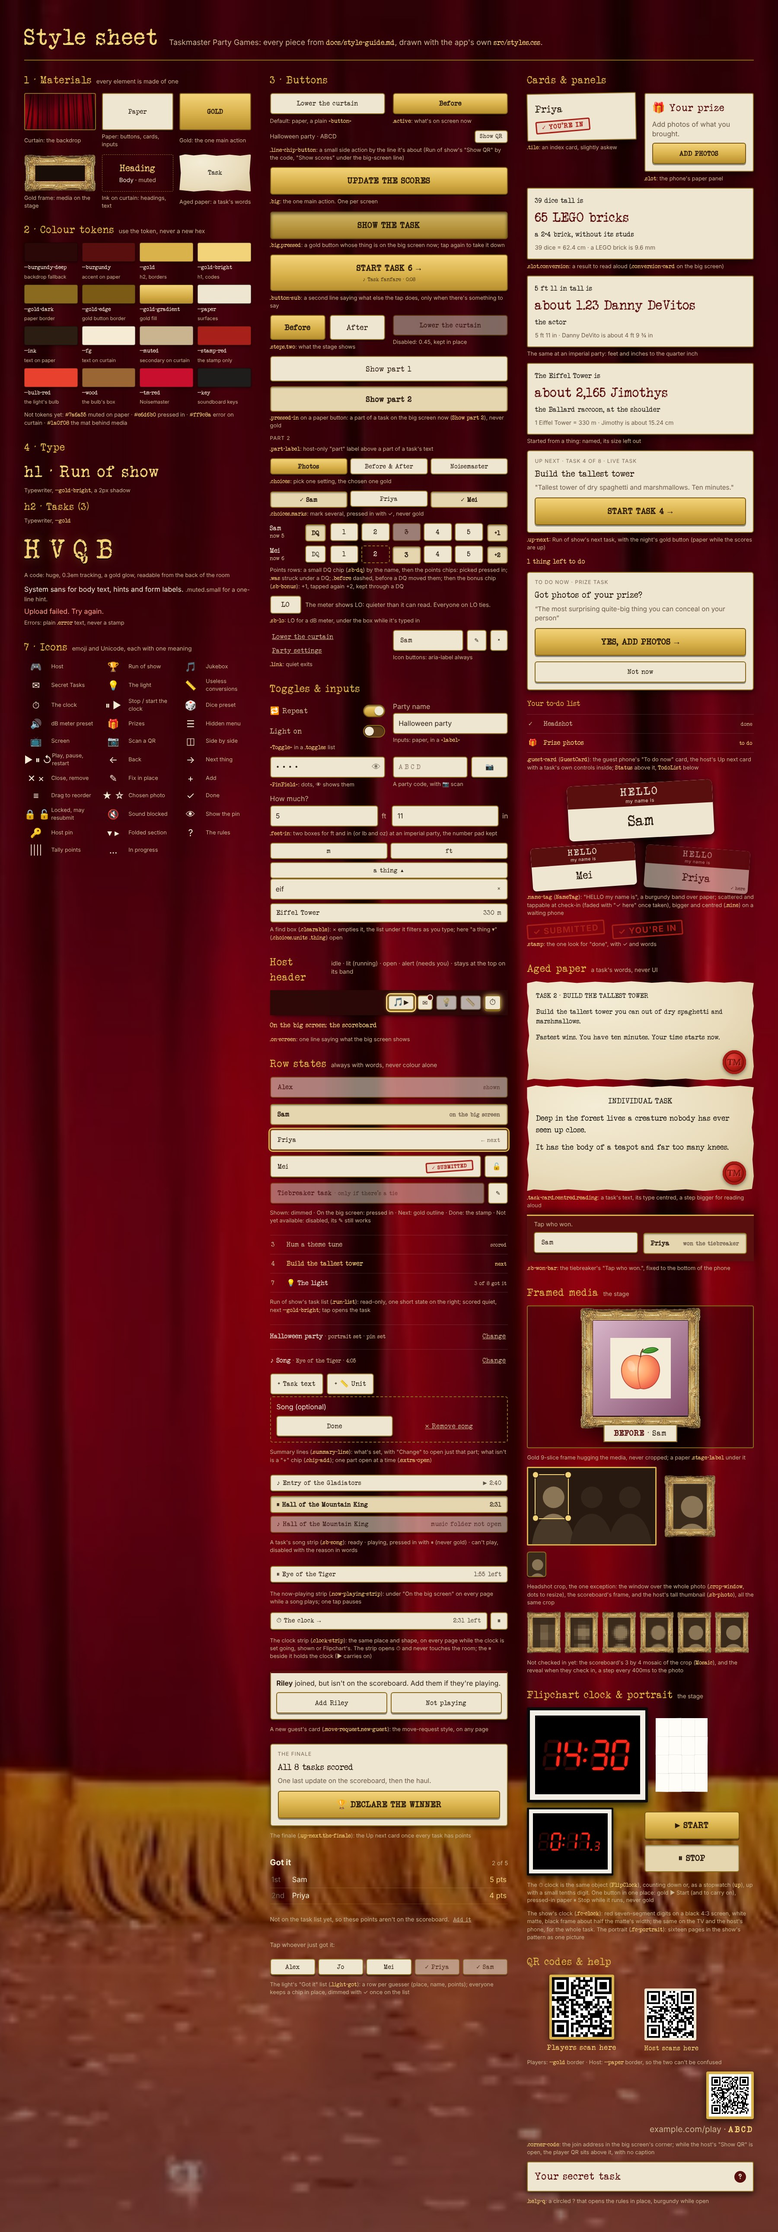
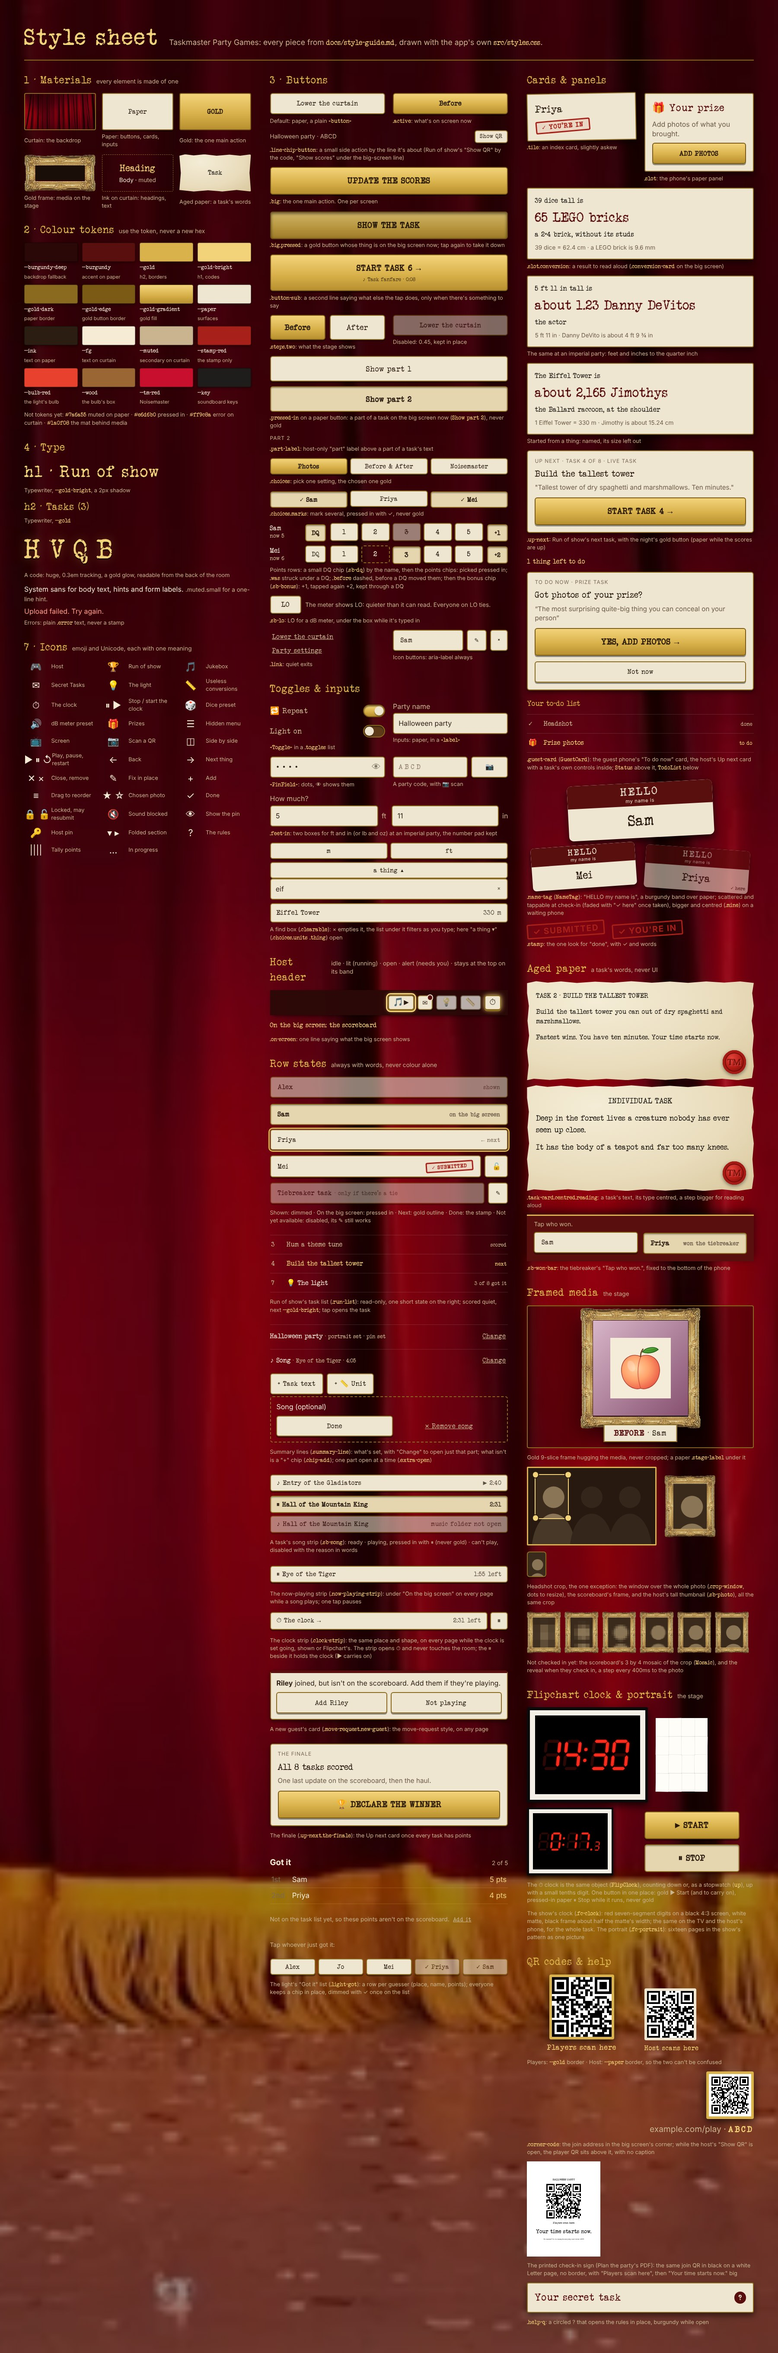
Check-in sign: Plan the party downloads a one-page PDF for the door with the join QR and "Your time starts now."
Claude-Session: https://claude.ai/code/session_01TyLgi4WDz2bc6AVrmW5mxx

diff --git a/src/scoreboard/taskCardsPdf.ts b/src/scoreboard/taskCardsPdf.ts
@@ -3,6 +3,7 @@
  * black text on white Letter pages, 12 pt, nothing of the card's parchment, edges or seal. A page per task, or per
  * part of one, text centred down the page; then, if asked, the secret tasks as cards: eight to a sheet (2 × 4, to
  * cut) or four (2 × 2, to fold into envelopes), each headed SECRET TASK, with faint cut lines and no fold lines.
+ * The check-in sign for the door is built here too, the same way.
  */
 
 export type Page = { heading: string; paragraphs: string[] };
@@ -158,7 +159,8 @@ function wrap(face: Face, text: string, size: number, max: number): number[][] {
   return lines;
 }
 
-interface Placed { x: number; y: number; codes: number[]; size: number }
+/** A line of text where it goes; `grey` (0 black … 1 white) for a quieter line. */
+interface Placed { x: number; y: number; codes: number[]; size: number; grey?: number }
 
 /**
  * One card's text laid out inside a box: the heading centred in capitals, then a paragraph a line, the block centred
@@ -198,8 +200,8 @@ const num = (n: number) => String(Math.round(n * 100) / 100);
 
 function stream(placed: Placed[], lines: string[] = []): string {
   const ops = [...lines];
-  ops.push("0 g", "BT");
-  for (const t of placed) ops.push(`/F1 ${num(t.size)} Tf 1 0 0 1 ${num(t.x)} ${num(t.y)} Tm ${hex(t.codes)} Tj`);
+  ops.push("BT");
+  for (const t of placed) ops.push(`${num(t.grey ?? 0)} g /F1 ${num(t.size)} Tf 1 0 0 1 ${num(t.x)} ${num(t.y)} Tm ${hex(t.codes)} Tj`);
   ops.push("ET");
   return ops.join("\n");
 }
@@ -229,7 +231,37 @@ export async function buildPdf(face: Face, pages: Page[], secrets: string[], lay
     content.push(stream(placed, cutLines(cols, rows)));
   }
   if (!content.length) throw new Error("No task text to print");
+  return writePdf(face, content);
+}
 
+/**
+ * The check-in sign: one Letter page to tape by the door. The party's name small on top, the join QR (`modules`,
+ * its dark squares, about 3¾ in) with "Players scan here", "Your time starts now." big, and the address and code
+ * small at the bottom for a phone that can't scan.
+ */
+export async function buildSignPdf(face: Face, sign: { party?: string; modules: boolean[][]; fallback: string }): Promise<Uint8Array> {
+  const centred = (text: string, size: number, y: number, grey?: number): Placed => {
+    const codes = codesOf(face, text);
+    return { x: (PAGE_W - widthOf(face, codes, size)) / 2, y, codes, size, grey };
+  };
+  const side = 3.75 * PT, cell = side / sign.modules.length;
+  const qrTop = PAGE_H / 2 + 2.7 * PT, left = (PAGE_W - side) / 2;
+  const squares: string[] = ["0 g"];
+  sign.modules.forEach((row, r) => row.forEach((dark, c) => {
+    if (dark) squares.push(`${num(left + c * cell)} ${num(qrTop - (r + 1) * cell)} ${num(cell)} ${num(cell)} re`);
+  }));
+  squares.push("f");
+  const placed = [
+    ...(sign.party ? [centred(sign.party.toUpperCase(), 16, qrTop + 0.55 * PT)] : []),
+    centred("Players scan here", 16, qrTop - side - 0.35 * PT),
+    centred("Your time starts now.", 40, qrTop - side - 1.45 * PT),
+    centred(sign.fallback, 11, qrTop - side - 2.25 * PT, 0.27),
+  ];
+  return writePdf(face, [stream(placed, squares)]);
+}
+
+/** The PDF file around `content`, a content stream a page, with the face embedded once as F1. */
+async function writePdf(face: Face, content: string[]): Promise<Uint8Array> {
   const enc = new TextEncoder();
   const chunks: Uint8Array[] = [];
   const offsets: number[] = [];

diff --git a/src/scoreboard/TaskCards.tsx b/src/scoreboard/TaskCards.tsx
@@ -7,7 +7,7 @@ import type { Scoreboard, Session } from "../types";
 import { setupFileName } from "../setupFile";
 import { sorted } from "./tasks";
 import { headingOf, partsOf, tiebreakerWords } from "./TaskText";
-import { buildPdf, faceOf, sfntOfWoff, type Page, type SecretLayout } from "./taskCardsPdf";
+import { buildPdf, faceOf, sfntOfWoff, type Face, type Page, type SecretLayout } from "./taskCardsPdf";
 
 /** A page per task with words (and per part of one), the tiebreaker last; a task with no words has none. */
 export function pagesOf(board: Scoreboard | undefined): Page[] {
@@ -16,6 +16,22 @@ export function pagesOf(board: Scoreboard | undefined): Page[] {
     heading: headingOf(p.type),
     paragraphs: p.text.split("\n").map((l) => l.trim()).filter(Boolean),
   })));
+}
+
+/** The Veteran Typewriter face, read from the app's own font file, for a PDF. */
+export async function typewriter(): Promise<Face> {
+  return faceOf(await sfntOfWoff(await (await fetch(fontUrl)).arrayBuffer()));
+}
+
+/** "Halloween party task cards.pdf": the setup file's name with `what` in place of its ending. */
+export const pdfName = (session: Session, code: string, what: string) => setupFileName(session, code).replace(/\.taskmaster\.json$/, ` ${what}.pdf`);
+
+/** The PDF in `tab`, opened while the tap still counted; where the browser wouldn't open one, it downloads instead. */
+export function showPdf(pdf: Uint8Array, tab: Window | null, name: string) {
+  const url = URL.createObjectURL(new Blob([pdf as BlobPart], { type: "application/pdf" }));
+  if (tab) tab.location.href = url;
+  else Object.assign(document.createElement("a"), { href: url, download: name }).click();
+  setTimeout(() => URL.revokeObjectURL(url), 60000);
 }
 
 /**
@@ -37,16 +53,8 @@ export function TaskCards({ code, session }: { code: string; session: Session })
       const secrets = Object.values(pool).filter((t) => t.trim());
       const pages = pagesOf(session.scoreboard);
       if (!pages.length && !secrets.length) { tab?.close(); setNote("No task has any text yet."); return; }
-      const face = faceOf(await sfntOfWoff(await (await fetch(fontUrl)).arrayBuffer()));
-      const pdf = await buildPdf(face, pages, secrets, layout);
-      const url = URL.createObjectURL(new Blob([pdf as BlobPart], { type: "application/pdf" }));
-      if (tab) tab.location.href = url;
-      else {
-        // The browser wouldn't open a tab, so it downloads instead.
-        const a = Object.assign(document.createElement("a"), { href: url, download: setupFileName(session, code).replace(/\.taskmaster\.json$/, " task cards.pdf") });
-        a.click();
-      }
-      setTimeout(() => URL.revokeObjectURL(url), 60000);
+      const pdf = await buildPdf(await typewriter(), pages, secrets, layout);
+      showPdf(pdf, tab, pdfName(session, code, "task cards"));
     } catch { tab?.close(); setNote("Couldn't make the PDF. Try again."); }
     finally { setBusy(false); }
   }

diff --git a/src/scoreboard/CheckinSign.tsx b/src/scoreboard/CheckinSign.tsx
@@ -1,0 +1,60 @@
+import { QRCodeSVG } from "qrcode.react";
+import { useState } from "react";
+import { createRoot } from "react-dom/client";
+import { flushSync } from "react-dom";
+import { PUBLIC_URL, joinUrlFor } from "../firebase";
+import type { Session } from "../types";
+import { pdfName, showPdf, typewriter } from "./TaskCards";
+import { buildSignPdf } from "./taskCardsPdf";
+
+/**
+ * The join QR's dark squares, row by row: the same code the big screen draws (`QRCodeSVG`), read back from its
+ * path, which runs of dark squares draw as "M x y h n v1 H x z".
+ */
+export function qrModules(value: string): boolean[][] {
+  const box = document.createElement("div");
+  const root = createRoot(box);
+  flushSync(() => root.render(<QRCodeSVG value={value} marginSize={0} />));
+  const svg = box.querySelector("svg")!;
+  const n = Number(svg.getAttribute("viewBox")!.split(" ")[2]);
+  const d = svg.querySelectorAll("path")[1]!.getAttribute("d")!;
+  root.unmount();
+  const rows = Array.from({ length: n }, () => Array<boolean>(n).fill(false));
+  for (const [, x, y, w] of d.matchAll(/M(\d+)[ ,](\d+) ?h(\d+)/g)) {
+    for (let i = 0; i < +w!; i++) rows[+y!]![+x! + i] = true;
+  }
+  return rows;
+}
+
+/**
+ * "Check-in sign" on Plan the party: downloads one page to print and tape by the door, the join QR under the party's
+ * name, "Your time starts now." and the address and code for a phone that can't scan.
+ */
+export function CheckinSign({ code, session }: { code: string; session: Session }) {
+  const [busy, setBusy] = useState(false);
+  const [note, setNote] = useState<string>();
+
+  async function download() {
+    setBusy(true); setNote(undefined);
+    // Opened now, while the tap still counts, so the browser lets the PDF come up in its own tab once it's made.
+    const tab = window.open("", "_blank");
+    try {
+      const site = PUBLIC_URL.replace(/^https?:\/\//, "");
+      const pdf = await buildSignPdf(await typewriter(), {
+        party: session.name, modules: qrModules(joinUrlFor(code)), fallback: `No camera? Go to ${site}/play and enter ${code}`,
+      });
+      showPdf(pdf, tab, pdfName(session, code, "check-in sign"));
+    } catch { tab?.close(); setNote("Couldn't make the PDF. Try again."); }
+    finally { setBusy(false); }
+  }
+
+  return (
+    <section className="task-cards">
+      <div className="summary-line">
+        <span>Check-in sign</span>
+        <button className="link" disabled={busy} onClick={() => void download()}>{busy ? "Making…" : "Download PDF"}</button>
+      </div>
+      <p className="muted small">{note ?? "Opens in a new tab: the join QR for the door, to print."}</p>
+    </section>
+  );
+}

diff --git a/docs/style-sheet/sheet.tsx b/docs/style-sheet/sheet.tsx
@@ -303,6 +303,14 @@ function Sheet() {
               <p>example.com/play · <strong>ABCD</strong></p>
             </div>
             <Cap><code>.corner-code</code>: the join address in the big screen's corner; while the host's "Show QR" is open, the player QR sits above it, with no caption</Cap>
+            <div style={{ justifySelf: "start", width: 170, aspectRatio: "8.5 / 11", background: "#fff", color: "#000", fontFamily: "var(--typewriter)", display: "grid", alignContent: "center", justifyItems: "center", gap: 6, textAlign: "center" }}>
+              <span style={{ fontSize: 6 }}>HALLOWEEN PARTY</span>
+              <QRCodeSVG value="https://example.com/play?code=ABCD" marginSize={0} style={{ width: 80, height: 80 }} />
+              <span style={{ fontSize: 6 }}>Players scan here</span>
+              <span style={{ fontSize: 13 }}>Your time starts now.</span>
+              <span style={{ fontSize: 4, color: "#444" }}>No camera? Go to example.com/play and enter ABCD</span>
+            </div>
+            <Cap>The printed check-in sign (Plan the party's PDF): the same join QR in black on a white Letter page, no border, with "Players scan here", then "Your time starts now." big</Cap>
             <div className="slot" style={{ gridTemplateColumns: "1fr auto", alignItems: "center" }}><h2>Your secret task</h2><button className="help-q" aria-expanded>?</button></div>
             <Cap><code>.help-q</code>: a circled ? that opens the rules in place, burgundy while open</Cap>
           </Sec>

diff --git a/src/scoreboard/Planning.tsx b/src/scoreboard/Planning.tsx
@@ -9,6 +9,7 @@ import { cropFill } from "./crop";
 import { currentTotals } from "./scoring";
 import { SetupFile } from "./SetupFile";
 import { TaskCards } from "./TaskCards";
+import { CheckinSign } from "./CheckinSign";
 import { Toggle } from "../Toggle";
 import { LIGHT, plural, scored, sorted, titleOf } from "./tasks";
 
@@ -35,6 +36,7 @@ export function PlanParty({ code, session, onBack, onEdit, onCrop }: {
       <Contestants code={code} session={session} board={board} contestants={sorted(board?.contestants)} onCrop={onCrop} />
       <Envelopes code={code} />
       <TaskCards code={code} session={session} />
+      <CheckinSign code={code} session={session} />
       <SetupFile code={code} session={session} />
     </div>
   );

diff --git a/docs/style-guide.md b/docs/style-guide.md
@@ -154,6 +154,8 @@ The Flipchart task has two materials of its own. **The clock** (`src/clock/FlipC
 ### QR codes
 White background, 6px `--gold` border (`--paper` border for the host QR, so the two can't be confused), with a typewriter caption underneath ("Players scan here" / "Host scans here").
 
+**Printed**, on the check-in sign (§ Plan the party), the join QR is plain black on white paper with no border, about 3¾ in square, still captioned "Players scan here". See: [checkin-sign-pdf.jpg](screens/checkin-sign-pdf.jpg).
+
 See: [main-welcome.jpg](screens/main-welcome.jpg).
 
 ## 4. Type
@@ -195,7 +197,7 @@ See: [guest-home-waiting.jpg](screens/guest-home-waiting.jpg), [guest-home-prize
 ### Host remote (`/host`)
 - Same phone column, but it's a **control panel**: every control keeps its position on every view. Disable controls that don't apply; don't remove them (see the comment in `HostRemote.tsx`).
 - **Header** (`HostPage.tsx`): five icon buttons, right-aligned, in this order: 🎵 the jukebox (shows ▶ and glows while a song plays), ✉ Secret Tasks, 💡 the light (glows while it's on), 📏 Useless conversions (glows while a conversion is on the big screen), ⏱ The clock (glows while it counts). The open one has a `--gold-bright` outline. It stays at the top of the screen while the page scrolls, on a band of `--burgundy-deep` (95%) that runs to the phone's edges, so it is always one tap away. Idle icons are faded and greyed (`.head-icon`); `.lit` is the gold glow, meaning "running"; `.alert` is a small burgundy dot, meaning "needs the host". Never use the glow for "needs you". There is no 🏆 and no "Host" label: Run of show is home, and its title carries the party name and code in small muted type. 🎵 ✉ 💡 📏 ⏱ open in place of the page with one "← Back" to where the host was, then the "On the big screen" line. A new all-evening feature gets a header icon, not another section on a page.
-- **Arrivals** (`Arrivals` in `RunOfShow.tsx`): before the first task, "Here so far · 3 of 5" and a read-only list (`.arrivals-list`: a 2rem-wide headshot in the scoreboard window's shape, cropped as the scoreboard crops it, the name in typewriter, and a muted "checked in", "not yet" or "checked in · no headshot yet"; guests who haven't come are dimmed). No QR button of its own: "Show QR" by the code covers it, and the host prints the QR for the door.
+- **Arrivals** (`Arrivals` in `RunOfShow.tsx`): before the first task, "Here so far · 3 of 5" and a read-only list (`.arrivals-list`: a 2rem-wide headshot in the scoreboard window's shape, cropped as the scoreboard crops it, the name in typewriter, and a muted "checked in", "not yet" or "checked in · no headshot yet"; guests who haven't come are dimmed). No QR button of its own: "Show QR" by the code covers it, and the host prints the QR for the door (the check-in sign, § Plan the party).
 - **New guest card** (`.move-request.new-guest`, in `HostPage.tsx`): the move-request card style, at the top of any page: the guest's name in bold, "joined, but isn't on the scoreboard. Add them if they're playing.", and two paper buttons, "Add Riley" and "Not playing".
 - **The finale** (`.up-next.the-finale`): the Up next card once every task has points: "THE FINALE", "All 8 tasks scored", one line on what follows, and the night's gold "🏆 Declare the winner".
 - **Now-playing strip** (`.sb-song.now-playing-strip`, in `OnScreen`): while a song plays, under the "On the big screen" line of every page: "⏸ Title" and "1:55 left", pressed in. One tap pauses it. It never goes gold.
@@ -230,7 +232,8 @@ See: [guest-home-waiting.jpg](screens/guest-home-waiting.jpg), [guest-home-prize
   3. `Contestants (N)`: the "Pixelate until checked in" switch (on to start) and a muted line, "On the big screen's scoreboard only. Each face sharpens as they check in." ([pixelate-host-plan.jpg](screens/pixelate-host-plan.jpg)), then the headshot as a tall thumbnail in the scoreboard window's shape, showing its crop (with none, tap to add one; with one, tap to open "Greg's headshot" in the row with paper Crop and Replace and a quiet Cancel, laid out like Rename) · name with "checked in" / "not yet" · `×`, guests here but not on the scoreboard with "+ Add", then a "Add contestants, one per line" box.
   4. "✉ Secret envelopes · 12 in the pile" as a summary line, with Change opening the pile to load it.
   5. **Task cards**: a row (`.task-cards`, a summary line) with **Download PDF** on the right (it opens the PDF in a new tab, or downloads it where the browser blocks that) and a quiet hint, "Opens in a new tab: each task's text, a page a part, to print." Under it an "Include secret tasks" switch (`Toggle`); on, a `.choices.marks` radio row "8 to cut" / "4 to fold" (pressed in, never gold) picks how the secret tasks print. The PDF is plain black Veteran Typewriter text on white Letter pages: a page per task or part (heading in capitals, centred; a paragraph per line; the block centred down the page), then the secret tasks as cards headed SECRET TASK, 8 (2 × 4) or 4 (2 × 2) a sheet, faint grey cut lines between cards and no fold lines. Built in the app (`taskCardsPdf.ts`) with the font embedded. See: [task-cards-pdf-page.jpg](screens/task-cards-pdf-page.jpg), [task-cards-pdf-secret-cut.jpg](screens/task-cards-pdf-secret-cut.jpg), [task-cards-pdf-secret-fold.jpg](screens/task-cards-pdf-secret-fold.jpg), [plan-host-task-cards.jpg](screens/plan-host-task-cards.jpg).
-  6. **Setup file**: at the very bottom, a row (`.setup-file`, a summary line like the envelopes' one): **Import** and **Export** links on the right (`.summary-links`) and a quiet hint under it, "Tasks, tiebreaker, secret tasks and the light. Not guests or points." ([host-setup-file.jpg](screens/host-setup-file.jpg)). Import opens the file picker, then a check in place under the row (`.sb-add`: an h3, "Nothing changes until you tap Import.", the read-only `.run-list` of the tasks as they'll be with unchanged / new / updated / kept: has points on the right, quiet lines for Removed, Tiebreaker, Secret tasks, The light and songs missing from the music folder, gold "Import N tasks", quiet Cancel); a wrong file shows one line and Cancel instead ([host-setup-import-check.jpg](screens/host-setup-import-check.jpg)).
+  6. **Check-in sign**: a row like Task cards (`CheckinSign.tsx`, a summary line) with **Download PDF** on the right and the hint "Opens in a new tab: the join QR for the door, to print." No options. The PDF is one white Letter page in black Veteran Typewriter, centred: the party's name in small capitals (none if the party has no name), the join QR (the big screen's address, `/play?code=ABCD`, about 3¾ in) with "Players scan here" under it, **"Your time starts now."** big (40 pt), and in small grey "No camera? Go to site/play and enter ABCD". Built by `buildSignPdf` in `taskCardsPdf.ts`. See: [checkin-sign-pdf.jpg](screens/checkin-sign-pdf.jpg), [plan-host-task-cards.jpg](screens/plan-host-task-cards.jpg).
+  7. **Setup file**: at the very bottom, a row (`.setup-file`, a summary line like the envelopes' one): **Import** and **Export** links on the right (`.summary-links`) and a quiet hint under it, "Tasks, tiebreaker, secret tasks and the light. Not guests or points." ([host-setup-file.jpg](screens/host-setup-file.jpg)). Import opens the file picker, then a check in place under the row (`.sb-add`: an h3, "Nothing changes until you tap Import.", the read-only `.run-list` of the tasks as they'll be with unchanged / new / updated / kept: has points on the right, quiet lines for Removed, Tiebreaker, Secret tasks, The light and songs missing from the music folder, gold "Import N tasks", quiet Cancel); a wrong file shows one line and Cancel instead ([host-setup-import-check.jpg](screens/host-setup-import-check.jpg)).
   On a wide iPad (≥1000px) the tasks and contestants sit side by side, with the party line and the envelopes line across.
 - **Summary line** (`.summary-line`): a line saying what's set, in typewriter, with a quiet "Change" (or ✎) at the right that opens just that part in place. Used for the party, the tiebreaker, the envelopes and a task's optional parts. Anything optional that isn't set yet is a paper "+" chip instead (`.chip-add`: "+ Task text", "+ Song", "+ 📏 Unit"). Only one part is open at a time (`.extra-open`, a dashed gold outline), with Done and "✕ Remove …" inside.
 - **A task's ✎ page** (`TaskEditPage.tsx`): its own page, "← Plan the party", so the list never jumps. Always there: the name (for an app task "Photos: name it (optional)"), the note and, for a live task, "Scoring". Then the optional parts as summary lines or chips: "Task text · LIVE TASK · Build the tallest…", "♪ Song · Eye of the Tiger · 4:05", "Transition · ♪ Task fanfare · 0:08 · 🖼 Dice tower" (music, a picture, both, or a video on its own: three pickers in one open part, then a paper "▶ Try it on the big screen" that plays what's picked, saved or not, on the big screen; pressed in, "⏹ Stop", while it plays, and it ends when the host leaves the page. [task-edit-transition.jpg](screens/task-edit-transition.jpg), [task-edit-transition-try.jpg](screens/task-edit-transition-try.jpg)), "📏 Measured in · cm · one is 1 cm" (🔊 dB meter, with its "DQ if louder than", for sound tasks). Gold Save, quiet Cancel and "Remove this task" below; the tiebreaker has no Scoring, unit or Remove.

diff --git a/docs/screens/README.md b/docs/screens/README.md
@@ -206,7 +206,8 @@ Scoreboard (taken on 2026-10-12, from the real components with made-up sessions;
 | `run-of-show-host-play-a-game.jpg` | "Play a task": a task that's not on the list, the same page with no number and no points (2026-10-19, from the ABCD party) |
 | `run-of-show-host-add-game.jpg` | "+ App task" on Plan the party, "Which task?": Noisemaster, Secret Tasks, Headshot and Prize task greyed out as "on the list", Photos still offered; the live tasks named Dice tower, Five socks and Hum a theme tune (2026-10-22, from the ABCD party) |
 | `host-setup-file.jpg` | The "Setup file" row at the bottom of Plan the party: Import and Export links on the right and "Tasks, tiebreaker, secret tasks and the light. Not guests or points." under it (2026-10-18). Rendered from the real row's markup |
-| `plan-host-task-cards.jpg` | Plan the party's bottom: the "Task cards" row with Download PDF, "Include secret tasks" switched on and the "8 to cut" / "4 to fold" radio row, above Setup file (2026-10-22, from the ABCD party) |
+| `plan-host-task-cards.jpg` | Plan the party's bottom: the "Task cards" row with Download PDF, "Include secret tasks" switched on and the "8 to cut" / "4 to fold" radio row, then the "Check-in sign" row with its Download PDF, above Setup file (2026-10-22, from the ABCD party) |
+| `checkin-sign-pdf.jpg` | The check-in sign PDF from the ABCD Halloween party: HALLOWEEN PARTY, the join QR, "Players scan here", "Your time starts now." and the no-camera line (2026-10-22) |
 | `task-cards-pdf-page.jpg` | The downloaded PDF's first page: a task's Individual part, heading centred in capitals, the paragraphs, the block centred down a white Letter page (2026-10-18) |
 | `task-cards-pdf-secret-cut.jpg` | A secret sheet, "8 to cut": a 2 × 4 grid of SECRET TASK cards with faint cut lines (2026-10-18) |
 | `task-cards-pdf-secret-fold.jpg` | A secret sheet, "4 to fold": a 2 × 2 grid, each card its own envelope-sized fold, no fold lines (2026-10-18) |
